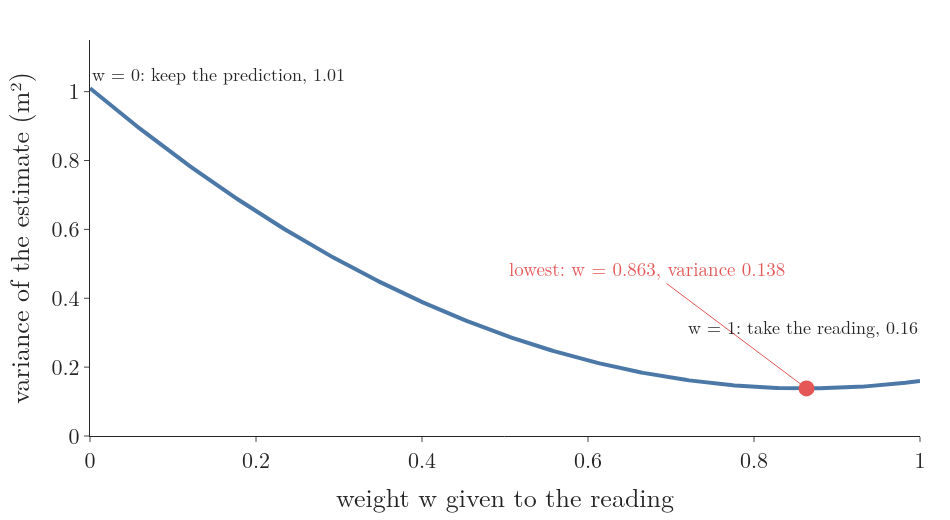
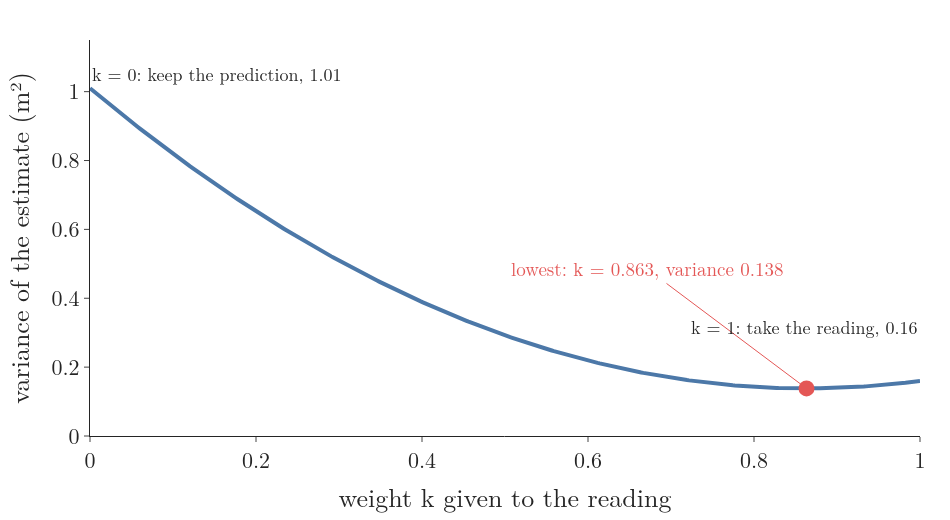
RO-017 §4: blend weight renamed w → k (w is the slip in §2.4); Figure 3 axis and labels follow

diff --git a/RO/localization/02-bayes-filters/RO-017-kalman-filter/images/var_vs_weight.py b/RO/localization/02-bayes-filters/RO-017-kalman-filter/images/var_vs_weight.py
@@ -1,6 +1,6 @@
-"""Choosing the weight of the reading: the variance of the blended estimate w z + (1 - w) x_pred, for the first
-step's numbers (prediction variance 1.01, reading variance 0.16). w = 0 keeps the prediction (1.01), w = 1 takes the
-reading (0.16); the lowest point is w = 1.01 / 1.17 = 0.863, variance 0.138. Run: python var_vs_weight.py"""
+"""Choosing the weight of the reading: the variance of the blended estimate k z + (1 - k) x_pred, for the first
+step's numbers (prediction variance 1.01, reading variance 0.16). k = 0 keeps the prediction (1.01), k = 1 takes the
+reading (0.16); the lowest point is k = 1.01 / 1.17 = 0.863, variance 0.138. Run: python var_vs_weight.py"""
 from pathlib import Path
 
 import numpy as np
@@ -9,21 +9,21 @@ from gifkit import BLUE, FONT, RED
 
 here = Path(__file__).parent
 pb, r = 1.01, 0.16
-w = np.linspace(0, 1, 400)
-v = w ** 2 * r + (1 - w) ** 2 * pb
-k = pb / (pb + r)
-vk = k ** 2 * r + (1 - k) ** 2 * pb
-assert abs(k - 0.8632) < 1e-4 and abs(vk - 0.1381) < 1e-4
-fig = go.Figure(go.Scatter(x=w, y=v, line=dict(color=BLUE, width=4)))
-fig.add_trace(go.Scatter(x=[k], y=[vk], mode="markers", marker=dict(color=RED, size=16)))
-fig.add_annotation(x=k, y=vk, text=f"lowest: w = {k:.3f}, variance {vk:.3f}", ax=-160, ay=-120, arrowcolor=RED,
+k = np.linspace(0, 1, 400)
+v = k ** 2 * r + (1 - k) ** 2 * pb
+kb = pb / (pb + r)
+vk = kb ** 2 * r + (1 - kb) ** 2 * pb
+assert abs(kb - 0.8632) < 1e-4 and abs(vk - 0.1381) < 1e-4
+fig = go.Figure(go.Scatter(x=k, y=v, line=dict(color=BLUE, width=4)))
+fig.add_trace(go.Scatter(x=[kb], y=[vk], mode="markers", marker=dict(color=RED, size=16)))
+fig.add_annotation(x=kb, y=vk, text=f"lowest: k = {kb:.3f}, variance {vk:.3f}", ax=-160, ay=-120, arrowcolor=RED,
                    font=dict(size=19, color=RED))
-fig.add_annotation(x=0, y=pb, text="w = 0: keep the prediction, 1.01", showarrow=False, xanchor="left", yanchor="bottom",
+fig.add_annotation(x=0, y=pb, text="k = 0: keep the prediction, 1.01", showarrow=False, xanchor="left", yanchor="bottom",
                    font=dict(size=18))
-fig.add_annotation(x=1, y=r, text="w = 1: take the reading, 0.16", showarrow=False, xanchor="right", yanchor="bottom",
+fig.add_annotation(x=1, y=r, text="k = 1: take the reading, 0.16", showarrow=False, xanchor="right", yanchor="bottom",
                    yshift=40, font=dict(size=18))
 fig.update_layout(template="simple_white", font=FONT, width=950, height=520, showlegend=False,
                   margin=dict(l=90, r=30, t=40, b=70),
-                  xaxis=dict(title="weight w given to the reading"),
+                  xaxis=dict(title="weight k given to the reading"),
                   yaxis=dict(title="variance of the estimate (m²)", range=[0, 1.15]))
 fig.write_image(here / "var_vs_weight.png")

diff --git a/RO/localization/02-bayes-filters/RO-017-kalman-filter/RO-017-kalman-filter.md b/RO/localization/02-bayes-filters/RO-017-kalman-filter/RO-017-kalman-filter.md
@@ -222,21 +222,21 @@ The beacon stops the drift but jumps. The update decides how far to follow each 
 
 The reading's error has a variance $R$, the **measurement noise** (G-2510) variance, which comes from the sensor's datasheet or from a calibration (Section 7.1).
 
-Neither should be thrown away. A natural blend is a weighted average, with weight $w$ on the reading and $1 - w$ on the prediction:
+Neither should be thrown away. A natural blend is a weighted average, with weight $k$ on the reading and $1 - k$ on the prediction:
 
-$$\hat{x} = w\thinspace z + (1 - w)\thinspace\bar{x}$$
+$$\hat{x} = k\thinspace z + (1 - k)\thinspace\bar{x}$$
 
-Which $w$? Taking $w = 0$ keeps the prediction, $w = 1$ takes the reading, and anything in between mixes them. We want the $w$ that makes the blended estimate as certain as possible: the smallest variance.
+Which $k$? Taking $k = 0$ keeps the prediction, $k = 1$ takes the reading, and anything in between mixes them. We want the $k$ that makes the blended estimate as certain as possible: the smallest variance.
 
 ### 4.2 The variance of the blend
 
-To find that $w$, we write the blend's variance as a function of $w$. The prediction's error and the reading's error are independent. By Section 2.3, scaling an error by $w$ scales its variance by $w^2$; by Section 2.4, independent variances add:
+To find that $k$, we write the blend's variance as a function of $k$. The prediction's error and the reading's error are independent. By Section 2.3, scaling an error by $k$ scales its variance by $k^2$; by Section 2.4, independent variances add:
 
-$$p(w) = w^2 R + (1 - w)^2\thinspace\bar{p}$$
+$$p(k) = k^2 R + (1 - k)^2\thinspace\bar{p}$$
 
 With our numbers:
 
-$$p(w) = 0.16\thinspace w^2 + 1.01\thinspace(1 - w)^2$$
+$$p(k) = 0.16\thinspace k^2 + 1.01\thinspace(1 - k)^2$$
 
 Figure 3 plots it. At the ends:
 
@@ -246,21 +246,21 @@ $$p(1) = 0.16 \quad \text{(reading only)}$$
 
 In between, the curve dips below both: mixing two independent estimates beats either one. What is left is to find where the dip is lowest.
 
-![The variance of the blended estimate against the weight on the reading, for the first step: 1.01 at w = 0, 0.16 at w = 1, lowest at w = 0.863 with variance 0.138](images/var_vs_weight.png)
+![The variance of the blended estimate against the weight on the reading, for the first step: 1.01 at k = 0, 0.16 at k = 1, lowest at k = 0.863 with variance 0.138](images/var_vs_weight.png)
 
 ### 4.3 The best weight: the Kalman gain
 
-The lowest point of a smooth curve is where its slope is zero. The [derivative](../../../../MA/06-calculus/MA-061-derivatives-of-one-variable/MA-061-derivatives-of-one-variable.md#41-from-secant-to-tangent) of $p(w)$, term by term:
+The lowest point of a smooth curve is where its slope is zero. The [derivative](../../../../MA/06-calculus/MA-061-derivatives-of-one-variable/MA-061-derivatives-of-one-variable.md#41-from-secant-to-tangent) of $p(k)$, term by term:
 
-$$\frac{dp}{dw} = 2wR - 2(1 - w)\thinspace\bar{p}$$
+$$\frac{dp}{dk} = 2kR - 2(1 - k)\thinspace\bar{p}$$
 
 Set it to zero and divide by 2:
 
-$$wR = (1 - w)\thinspace\bar{p}$$
+$$kR = (1 - k)\thinspace\bar{p}$$
 
-$$wR + w\bar{p} = \bar{p}$$
+$$kR + k\bar{p} = \bar{p}$$
 
-$$w = \frac{\bar{p}}{\bar{p} + R}$$
+$$k = \frac{\bar{p}}{\bar{p} + R}$$
 
 This best weight is the **Kalman gain** (G-2508), written $K$ (kalmanfilter.net 1D; Becker ch.4). For step 1:
 
@@ -280,7 +280,7 @@ So $K$ always lies between 0 and 1, and the update always lands between the pred
 
 ### 4.4 The updated estimate and its variance
 
-Put $w = K$ into the weighted average and regroup:
+Put $k = K$ into the weighted average and regroup:
 
 $$\hat{x} = Kz + (1 - K)\thinspace\bar{x}$$
 
@@ -300,13 +300,13 @@ $$= 0.5 + 0.276 = 0.776 \text{ m}$$
 
 The true position is 0.73 m.
 
-**The variance.** Put $w = K$ into $p(w)$. The two weights are:
+**The variance.** Put $k = K$ into $p(k)$. The two weights are:
 
 $$K = \frac{\bar{p}}{\bar{p} + R}$$
 
 $$1 - K = \frac{R}{\bar{p} + R}$$
 
-So the two terms of $p(w)$ are:
+So the two terms of $p(k)$ are:
 
 $$K^2 R = \frac{\bar{p}^2 R}{(\bar{p} + R)^2}$$
 
